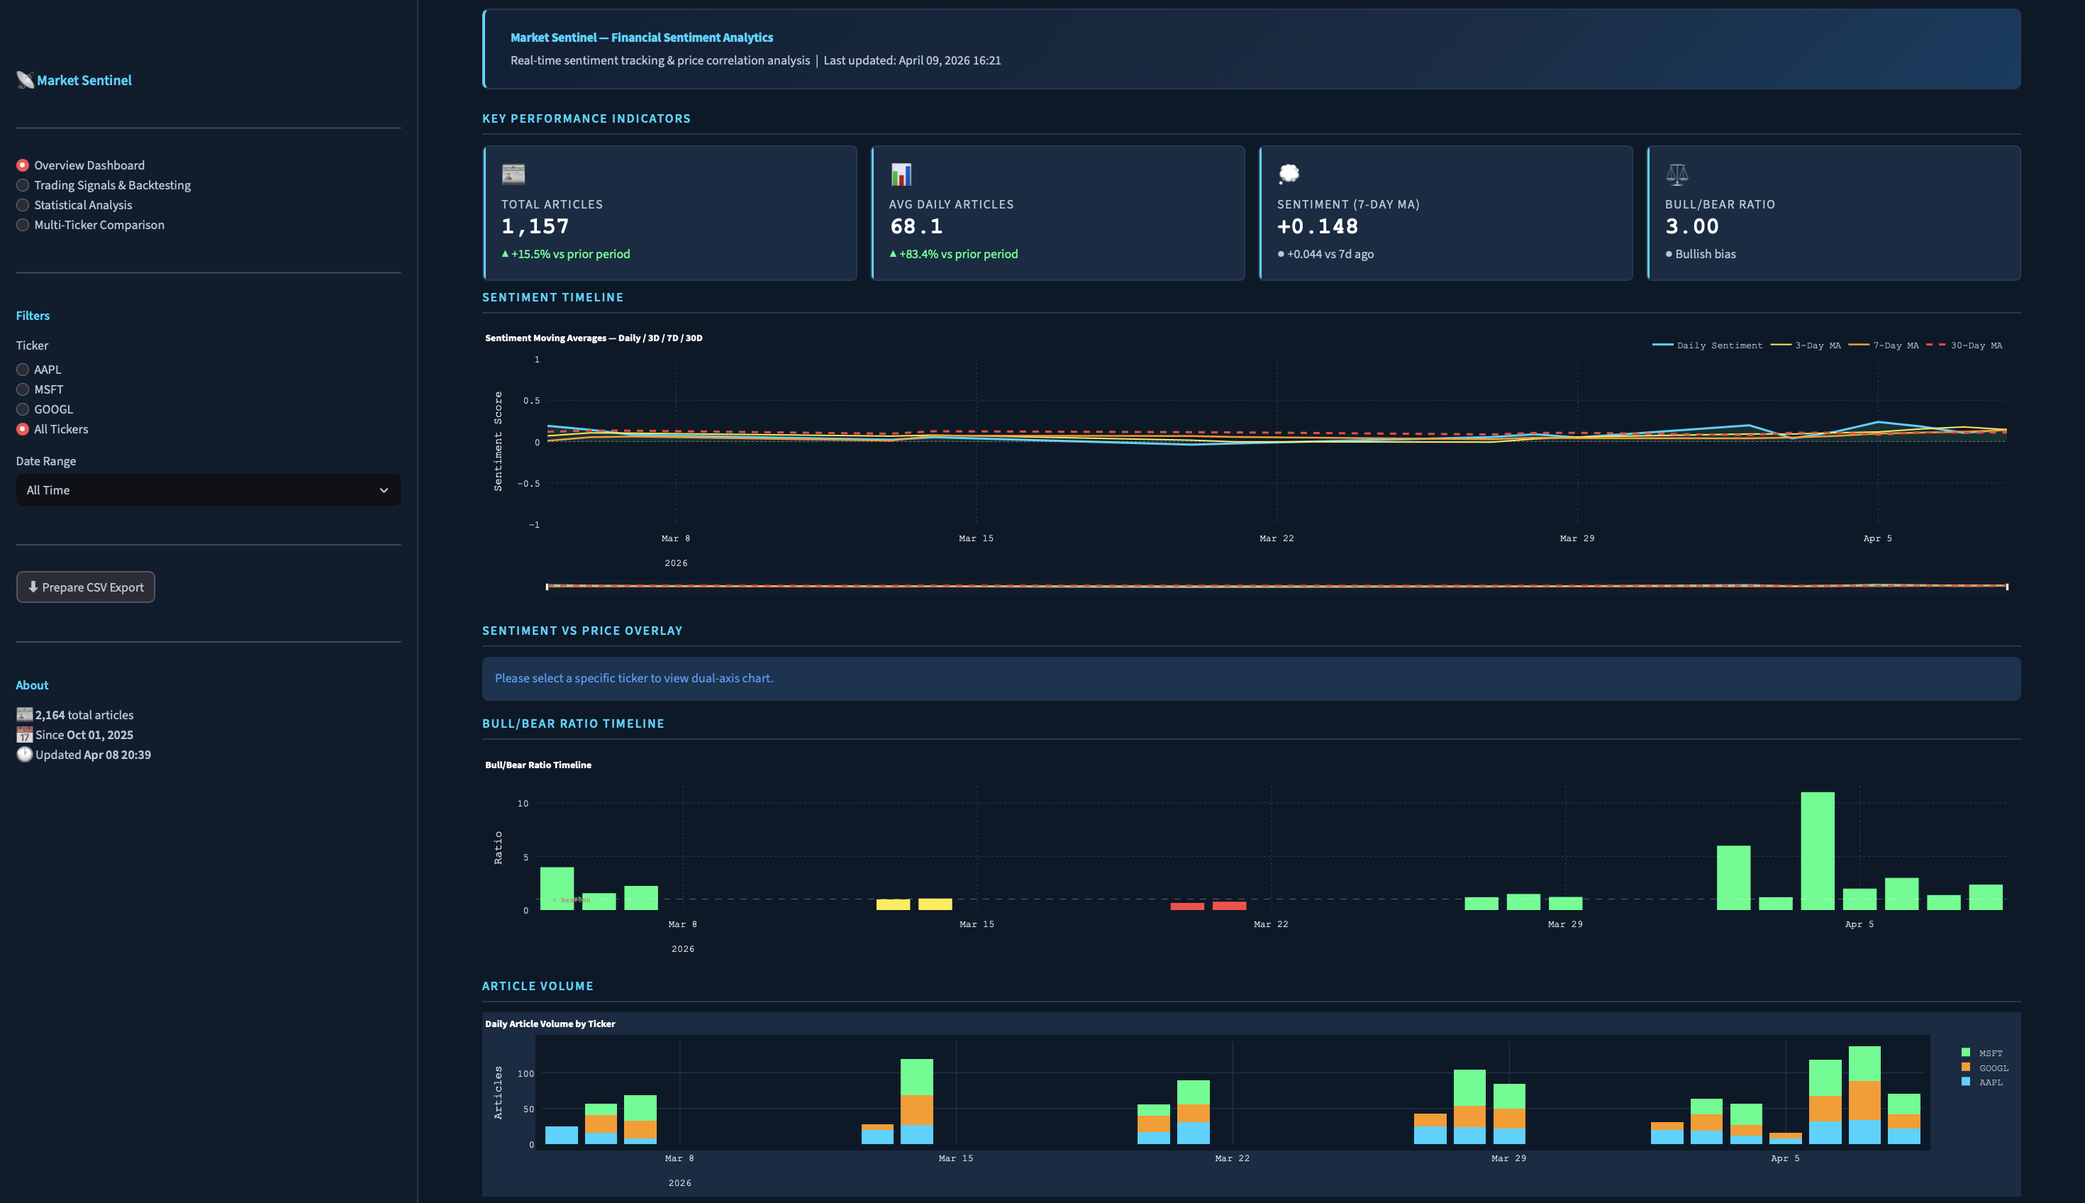
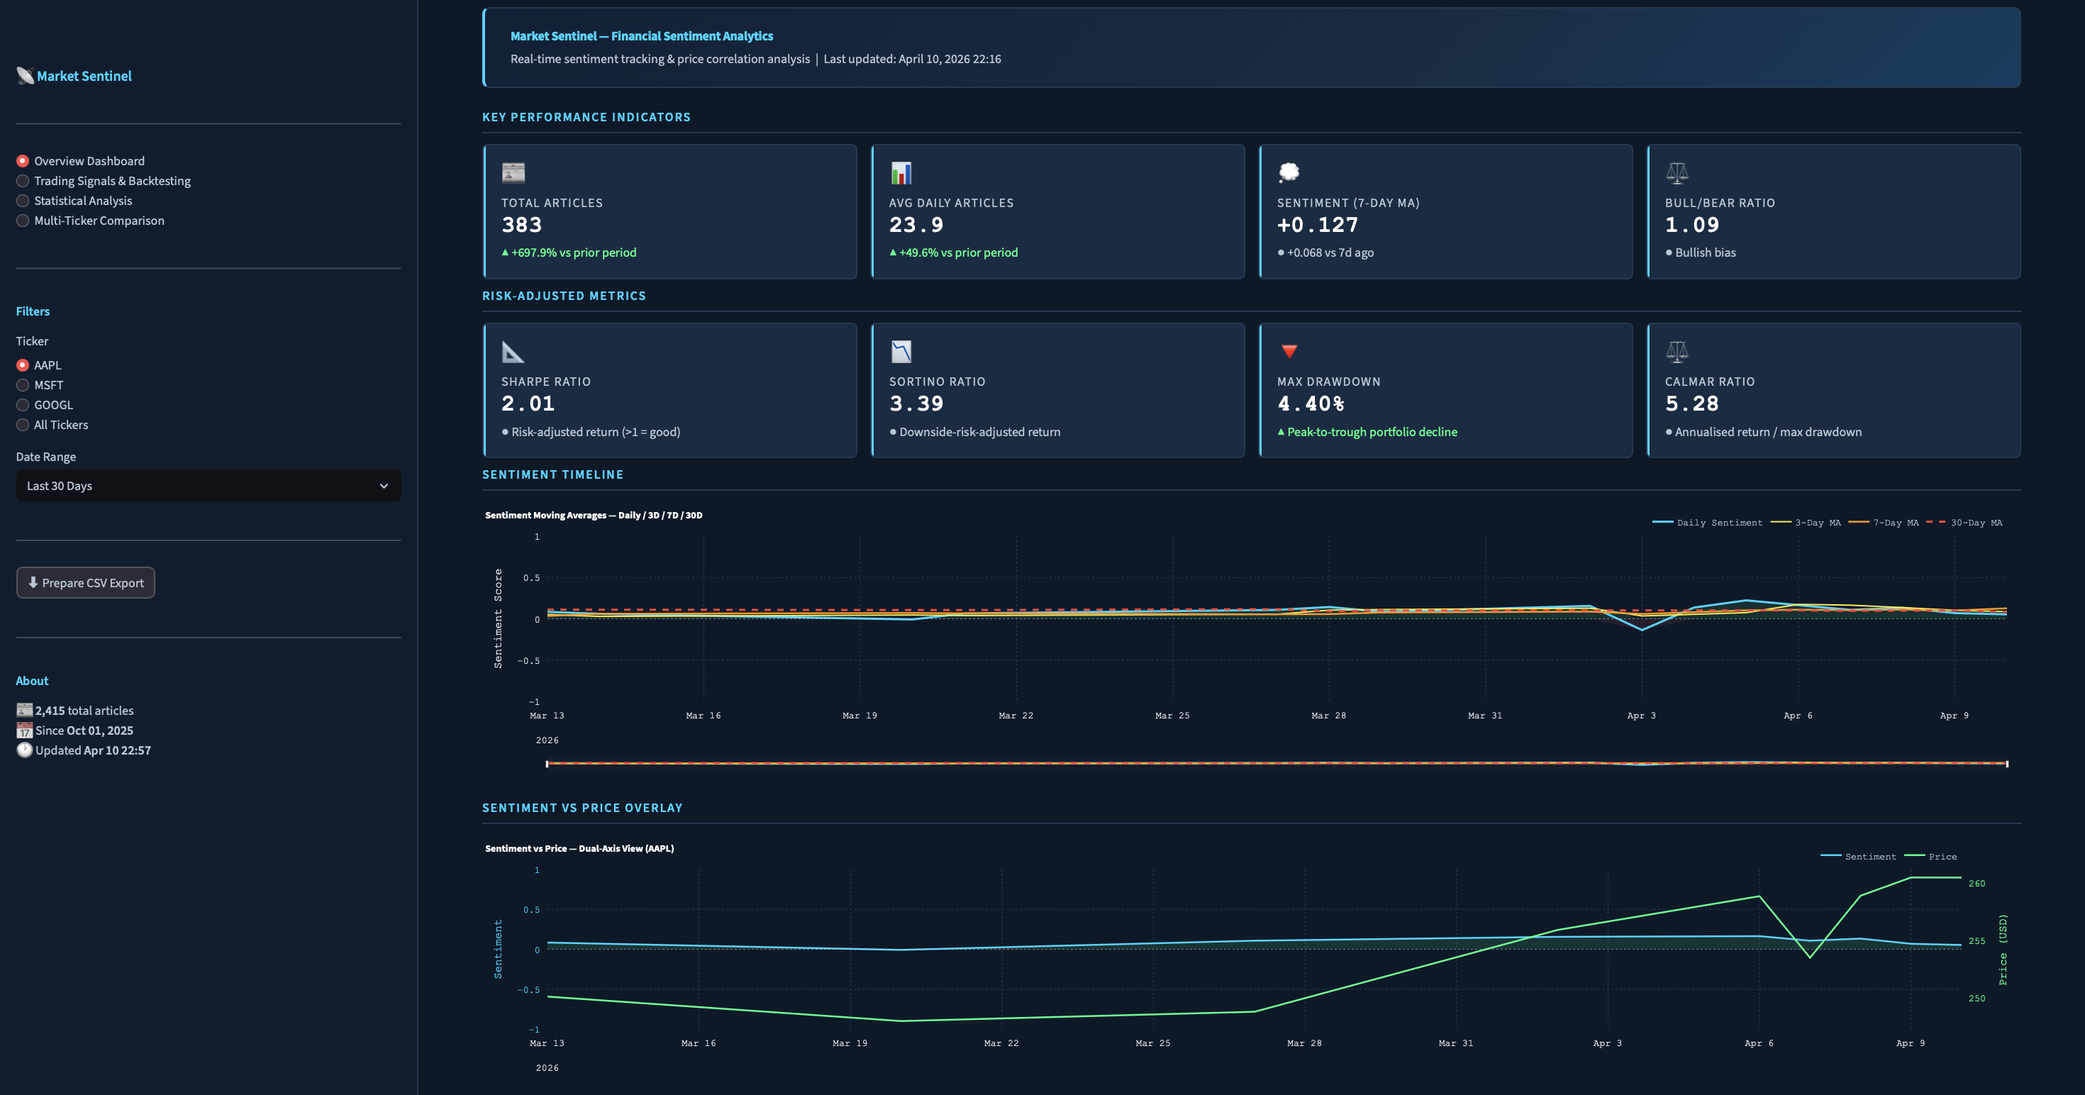
Add risk-adjusted performance metrics to dashboard
- Implemented Sharpe Ratio, Sortino Ratio, Max Drawdown, and Calmar Ratio calculations
- Added risk metrics display to Page 1 overview and Page 4 ticker comparison
- Updated README with risk metrics documentation and dashboard screenshots
- Uses signal-frequency annualization for accurate performance measurement

diff --git a/dashboard/app.py b/dashboard/app.py
@@ -260,6 +260,55 @@ def load_about_stats() -> dict:
         "last_updated": row[2],
     }
 
+# ── Risk metrics helper ───────────────────────────────────────────────────────
+
+def calc_risk_metrics(returns_series: pd.Series) -> dict:
+    """
+    Compute Sharpe, Sortino, Max Drawdown, and Calmar from a signal-based returns
+    series (values in percent, e.g. 1.5 means +1.5%).
+    Risk-free rate: 4% annual (0.04/252 daily).
+
+    Annualization uses signal frequency rather than assuming continuous daily trading.
+    The dataset covers ~126 trading days (Oct 2025 – Apr 2026); annualizing by the
+    observed signal rate (n_obs / 126 * 252) gives a more accurate picture than
+    treating each signal as a calendar day.
+    """
+    RISK_FREE_DAILY = 0.04 / 252
+    TRADING_DAYS_PER_YEAR = 252
+    PERIOD_TRADING_DAYS = 126  # Oct 2025 – Apr 2026
+
+    r = pd.to_numeric(returns_series, errors="coerce").dropna()
+    if len(r) < 3:
+        return {"sharpe": None, "sortino": None, "max_drawdown": None, "calmar": None}
+
+    r_dec = r / 100  # convert percent → decimal
+    mean_r = r_dec.mean()
+    std_r = r_dec.std()
+
+    # Annualization factor based on actual signal frequency
+    ann_factor = len(r) / PERIOD_TRADING_DAYS * TRADING_DAYS_PER_YEAR
+
+    # Sharpe ratio (annualised by signal frequency)
+    sharpe = ((mean_r - RISK_FREE_DAILY) / std_r * np.sqrt(ann_factor)) if std_r > 0 else None
+
+    # Sortino ratio — downside deviation only
+    downside = r_dec[r_dec < RISK_FREE_DAILY]
+    downside_std = downside.std() if len(downside) > 1 else 0
+    sortino = ((mean_r - RISK_FREE_DAILY) / downside_std * np.sqrt(ann_factor)) if downside_std > 0 else None
+
+    # Max Drawdown from cumulative signal returns
+    cum = (1 + r_dec).cumprod()
+    peak = cum.cummax()
+    drawdown = (cum - peak) / peak * 100
+    max_dd = abs(float(drawdown.min()))
+
+    # Calmar = annualised return / max drawdown
+    ann_ret = mean_r * ann_factor * 100
+    calmar = ann_ret / max_dd if max_dd > 0 else None
+
+    return {"sharpe": sharpe, "sortino": sortino, "max_drawdown": max_dd, "calmar": calmar}
+
+
 # ── Date-range resolver ───────────────────────────────────────────────────────
 
 def resolve_dates(range_label: str, custom_start=None, custom_end=None):
@@ -453,6 +502,41 @@ def page_overview(ticker: str, start_date: date, end_date: date):
         bb_str = f"{'Bullish' if bb_pos else 'Bearish'} bias"
         kpi_card("⚖", "Bull/Bear Ratio", f"{latest_bb_ratio:.2f}",
                  bb_str, delta_positive=bb_pos)
+
+    # ── Risk-Adjusted Metrics ──
+    st.markdown('<p class="section-title">Risk-Adjusted Metrics</p>', unsafe_allow_html=True)
+    try:
+        df_signals_risk = load_trading_signals(ticker)
+        risk_returns = pd.to_numeric(df_signals_risk["next_day_return"], errors="coerce").dropna()
+        rm = calc_risk_metrics(risk_returns)
+    except Exception:
+        rm = {"sharpe": None, "sortino": None, "max_drawdown": None, "calmar": None}
+
+    r1, r2, r3, r4 = st.columns(4)
+    with r1:
+        sharpe_str = f"{rm['sharpe']:.2f}" if rm["sharpe"] is not None else "N/A"
+        kpi_card("📐", "Sharpe Ratio",
+                 sharpe_str,
+                 "Risk-adjusted return (>1 = good)",
+                 delta_positive=(rm["sharpe"] > 1) if rm["sharpe"] is not None else None)
+    with r2:
+        sortino_str = f"{rm['sortino']:.2f}" if rm["sortino"] is not None else "N/A"
+        kpi_card("📉", "Sortino Ratio",
+                 sortino_str,
+                 "Downside-risk-adjusted return",
+                 delta_positive=(rm["sortino"] > 1) if rm["sortino"] is not None else None)
+    with r3:
+        dd_str = f"{rm['max_drawdown']:.2f}%" if rm["max_drawdown"] is not None else "N/A"
+        kpi_card("🔻", "Max Drawdown",
+                 dd_str,
+                 "Peak-to-trough portfolio decline",
+                 delta_positive=(rm["max_drawdown"] < 10) if rm["max_drawdown"] is not None else None)
+    with r4:
+        calmar_str = f"{rm['calmar']:.2f}" if rm["calmar"] is not None else "N/A"
+        kpi_card("⚖", "Calmar Ratio",
+                 calmar_str,
+                 "Annualised return / max drawdown",
+                 delta_positive=(rm["calmar"] > 1) if rm["calmar"] is not None else None)
 
     # ── Sentiment Timeline ──
     st.markdown('<p class="section-title">Sentiment Timeline</p>', unsafe_allow_html=True)
@@ -1444,8 +1528,11 @@ def page_multi_ticker():
         avg_ret = sub_ret["next_day_return"].mean() if not sub_ret.empty else float("nan")
         best_ret = sub_ret["next_day_return"].max() if not sub_ret.empty else float("nan")
         best_date = sub_ret.loc[sub_ret["next_day_return"].idxmax(), "date"] if not sub_ret.empty else None
+        risk_m = calc_risk_metrics(sub_ret["next_day_return"])
         stats_by_ticker[t] = dict(total=total, win_rate=win_rate, avg_ret=avg_ret,
-                                   best_ret=best_ret, best_date=best_date)
+                                   best_ret=best_ret, best_date=best_date,
+                                   sharpe=risk_m["sharpe"], max_drawdown=risk_m["max_drawdown"],
+                                   calmar=risk_m["calmar"])
 
     for i, t in enumerate(["AAPL", "MSFT", "GOOGL"]):
         s = stats_by_ticker[t]
@@ -1457,6 +1544,9 @@ def page_multi_ticker():
         avg_str  = f"{s['avg_ret']:+.2f}%" if not np.isnan(s["avg_ret"]) else "N/A"
         best_str = f"{s['best_ret']:+.2f}%" if not np.isnan(s["best_ret"]) else "N/A"
         date_str = s["best_date"].strftime("%b %d") if s["best_date"] is not None else ""
+
+        sharpe_str = f"{s['sharpe']:.2f}" if s["sharpe"] is not None else "N/A"
+        dd_str     = f"{s['max_drawdown']:.2f}%" if s["max_drawdown"] is not None else "N/A"
 
         with card_cols[i]:
             st.markdown(f"""
@@ -1480,6 +1570,14 @@ def page_multi_ticker():
               text-transform:uppercase;letter-spacing:0.08em">Best Trade</div>
   <div style="font-size:1.1rem;font-weight:600;color:#00ff88;
               font-family:Courier New">{best_str}{f" ({date_str})" if date_str else ""}</div>
+  <div style="margin-top:0.6rem;font-size:0.72rem;color:#b8c5d6;
+              text-transform:uppercase;letter-spacing:0.08em">Sharpe Ratio</div>
+  <div style="font-size:1.1rem;font-weight:600;color:#00d4ff;
+              font-family:Courier New">{sharpe_str}</div>
+  <div style="margin-top:0.6rem;font-size:0.72rem;color:#b8c5d6;
+              text-transform:uppercase;letter-spacing:0.08em">Max Drawdown</div>
+  <div style="font-size:1.1rem;font-weight:600;color:#ff9800;
+              font-family:Courier New">{dd_str}</div>
 </div>
 """, unsafe_allow_html=True)
 
@@ -1577,6 +1675,8 @@ def page_multi_ticker():
             "Avg Return (%)": round(s["avg_ret"], 2) if not np.isnan(s["avg_ret"]) else None,
             "Best Trade (%)": round(s["best_ret"], 2) if not np.isnan(s["best_ret"]) else None,
             "Worst Trade (%)": round(worst, 2) if not np.isnan(worst) else None,
+            "Sharpe Ratio": round(s["sharpe"], 2) if s["sharpe"] is not None else None,
+            "Max Drawdown (%)": round(s["max_drawdown"], 2) if s["max_drawdown"] is not None else None,
             "Sent-Price Corr": round(r_val, 2) if not np.isnan(r_val) else None,
         }
 

diff --git a/README.md b/README.md
@@ -67,13 +67,13 @@ Market Sentinel implements a **Data Lakehouse** architecture, combining the flex
 ┌─────────────────────────────────────────────────────────────────────────┐
 │                    ORCHESTRATION LAYER (Apache Airflow)                  │
 ├─────────────────────────────────────────────────────────────────────────┤
-│  DAG 1: ingest_news_dag        │  DAG 2: fetch_prices_dag              │
-│  • Fetches news daily (10 PM)  │  • Fetches stock prices (10 PM)       │
-│  • Stores raw JSON in MinIO    │  • Stores in PostgreSQL staging       │
-│  • Handles API rate limits     │  • Covers AAPL, MSFT, GOOGL           │
-├────────────────────────────────┴───────────────────────────────────────┤
-│  DAG 3: process_sentiment_dag  │  DAG 4: dbt_transform_dag             │
-│  • Runs FinBERT analysis (11PM)│  • Runs dbt models (11:30 PM)         │
+│  DAG 1: ingest_news_dag              │  DAG 2: fetch_prices_dag              │
+│  • Fetches news daily (22:00 UTC)    │  • Fetches stock prices (22:00 UTC)   │
+│  • Stores raw JSON in MinIO          │  • Stores in PostgreSQL staging       │
+│  • Handles API rate limits           │  • Covers AAPL, MSFT, GOOGL           │
+├──────────────────────────────────────┴───────────────────────────────────────┤
+│  DAG 3: process_sentiment_dag        │  DAG 4: dbt_transform_dag             │
+│  • Runs FinBERT analysis (23:00 UTC) │  • Runs dbt models (23:30 UTC)        │
 │  • Loads to PostgreSQL staging │  • Builds analytics tables            │
 │  • Processes new articles only │  • Generates trading signals          │
 └────────────┬──────────────────────┴──────────────────┬──────────────────┘
@@ -193,6 +193,7 @@ Four comprehensive views built in Streamlit:
 
 **Page 1: Overview Dashboard**
 - Real-time KPIs: Total articles, daily average, 7-day sentiment MA, bull/bear ratio
+- Risk-adjusted metrics: Sharpe Ratio, Sortino Ratio, Max Drawdown, Calmar Ratio
 - Sentiment timeline with multiple moving averages (7D, 30D, 90D)
 - Sentiment vs. price overlay chart (dual-axis)
 - Article volume breakdown by ticker
@@ -210,12 +211,18 @@ Four comprehensive views built in Streamlit:
 - Auto-generated key insights based on data
 
 **Page 4: Multi-Ticker Comparison**
-- Side-by-side performance cards with colored borders
+- Side-by-side performance cards with colored borders (includes Sharpe Ratio, Max Drawdown per ticker)
 - Win rate by signal type per ticker
 - Sentiment-price correlation bar chart
-- Comparative stats table (returns, win rates, correlations)
+- Comparative stats table (returns, win rates, Sharpe Ratio, Max Drawdown, correlations)
 
-### 6. **Production-Grade Engineering**
+### 6. **Advanced Analytics**
+- Risk-adjusted performance metrics: Sharpe Ratio, Sortino Ratio, Calmar Ratio (annualized)
+- Maximum drawdown tracking for portfolio risk assessment
+- Statistical significance testing (Pearson's r + p-values across all metric pairs)
+- Comparative multi-ticker risk analysis (per-ticker Sharpe and drawdown breakdown)
+
+### 7. **Production-Grade Engineering**
 - **Dockerized deployment:** Entire stack (Airflow, PostgreSQL, MinIO, Streamlit) runs with one command
 - **Error handling:** Retry logic, graceful degradation, logging
 - **Git version control:** All code, SQL models, and configurations tracked
@@ -246,6 +253,17 @@ Four comprehensive views built in Streamlit:
 - **Overall Sentiment (7-Day MA):** +0.148 (slightly bullish)
 - **Bull/Bear Ratio:** 3.00 (3:1 ratio of positive to negative articles)
 - **Interpretation:** Market coverage was predominantly bullish during this period (Q4 2025 - Q1 2026), consistent with strong tech sector performance
+
+### Risk-Adjusted Metrics (All Tickers)
+
+| Metric | Value | Description |
+|--------|-------|-------------|
+| **Sharpe Ratio** | 2.96 | Annualised risk-adjusted return (risk-free rate: 4%) |
+| **Sortino Ratio** | 5.32 | Downside-risk-adjusted return (penalises losses only) |
+| **Max Drawdown** | 5.38% | Peak-to-trough decline across signal returns |
+| **Calmar Ratio** | 11.17 | Annualised return divided by max drawdown |
+
+*Annualization uses signal frequency (85 signals over 126 trading days ≈ 170 signals/year) rather than assuming continuous daily trading, which would overstate performance for a HOLD-heavy strategy.*
 
 ---
 
@@ -321,8 +339,8 @@ Four comprehensive views built in Streamlit:
 **Future Improvements:**
 - Incorporate additional features (market regime, sector rotation, options flow)
 - Multi-day holding periods (current strategy only measures next-day returns)
-- Risk-adjusted metrics (Sharpe ratio, max drawdown)
 - Intraday data (sentiment may have stronger short-term impact)
+- Portfolio-level risk management (position sizing, stop-loss, take-profit)
 
 ---
 
@@ -378,10 +396,10 @@ Access Airflow UI at http://localhost:8080
 - **Password:** `admin`
 
 Enable DAGs (all 4):
-- `ingest_news` - Daily news ingestion (10 PM)
-- `fetch_prices` - Daily price data fetch (10 PM)
-- `process_sentiment` - Sentiment analysis (11 PM)
-- `dbt_transform` - dbt model execution (11:30 PM)
+- `ingest_news` - Daily news ingestion (22:00 UTC / 5:00 PM EST)
+- `fetch_prices` - Daily price data fetch (22:00 UTC / 5:00 PM EST)
+- `process_sentiment` - Sentiment analysis (23:00 UTC / 6:00 PM EST)
+- `dbt_transform` - dbt model execution (23:30 UTC / 6:30 PM EST)
 
 **5. Run Initial Backfill (Optional)**
 
@@ -405,12 +423,12 @@ Open http://localhost:8501 in your browser.
 
 Once configured, the pipeline runs automatically every day:
 
-1. **10:00 PM EST:** `ingest_news` and `fetch_prices` DAGs run in parallel
+1. **22:00 UTC (5:00 PM EST):** `ingest_news` and `fetch_prices` DAGs run in parallel
    - News articles fetched from Alpha Vantage → stored in MinIO
    - Stock prices fetched from Yahoo Finance → stored in PostgreSQL staging
-2. **11:00 PM EST:** `process_sentiment` DAG runs (depends on news ingestion)
+2. **23:00 UTC (6:00 PM EST):** `process_sentiment` DAG runs (depends on news ingestion)
    - FinBERT analyzes sentiment → loads to PostgreSQL staging
-3. **11:30 PM EST:** `dbt_transform` DAG runs (depends on sentiment processing)
+3. **23:30 UTC (6:30 PM EST):** `dbt_transform` DAG runs (depends on sentiment processing)
    - All 9 dbt models execute → `trading_signals` table updates
 4. **Dashboard auto-refreshes:** New data appears in Streamlit UI next morning
 
@@ -459,10 +477,10 @@ market-sentinel/
 ├── README.md                   # This file
 │
 ├── dags/                       # Airflow DAGs (4 production DAGs)
-│   ├── ingest_news_dag.py      # Daily news ingestion (10 PM)
-│   ├── fetch_prices_dag.py     # Daily price data fetch (10 PM)
-│   ├── process_sentiment_dag.py # Sentiment analysis (11 PM)
-│   └── dbt_transform_dag.py    # dbt transformations (11:30 PM)
+│   ├── ingest_news_dag.py      # Daily news ingestion (22:00 UTC)
+│   ├── fetch_prices_dag.py     # Daily price data fetch (22:00 UTC)
+│   ├── process_sentiment_dag.py # Sentiment analysis (23:00 UTC)
+│   └── dbt_transform_dag.py    # dbt transformations (23:30 UTC)
 │
 ├── scripts/                    # Python ETL scripts
 │   ├── fetch_news.py           # Fetch news from Alpha Vantage
@@ -549,23 +567,23 @@ WHERE ABS(next_day_return) > 5.0;  -- Flag outliers (should be empty)
 ### Airflow DAG Parameters
 
 **`ingest_news_dag.py`:**
-- **Schedule:** `@daily` at 10:00 PM EST
+- **Schedule:** `@daily` at 22:00 UTC (5:00 PM EST)
 - **Retries:** 3
 - **Retry delay:** 5 minutes
 - **Catchup:** False (doesn't backfill missed runs)
 
 **`fetch_prices_dag.py`:**
-- **Schedule:** `@daily` at 10:00 PM EST
+- **Schedule:** `@daily` at 22:00 UTC (5:00 PM EST)
 - **Retries:** 3
 - **Retry delay:** 5 minutes
 
 **`process_sentiment_dag.py`:**
-- **Schedule:** `@daily` at 11:00 PM EST (after news ingestion)
+- **Schedule:** `@daily` at 23:00 UTC (6:00 PM EST, after news ingestion)
 - **Retries:** 2
 - **Timeout:** 30 minutes (for FinBERT processing)
 
 **`dbt_transform_dag.py`:**
-- **Schedule:** `@daily` at 11:30 PM EST (after sentiment processing)
+- **Schedule:** `@daily` at 23:30 UTC (6:30 PM EST, after sentiment processing)
 - **Retries:** 2
 - **Runs:** All 9 dbt models in dependency order
 
@@ -592,21 +610,25 @@ Adjust these thresholds based on backtesting results.
 
 ## 📸 Screenshots
 
-### Page 1: Overview Dashboard
-![Overview Dashboard](screenshots/page1_overview.png)
-*Real-time sentiment tracking with KPIs, sentiment timeline, and bull/bear ratio analysis*
+### Page 1 - Overview Dashboard (Top)
+![Overview Dashboard Top](screenshots/page1_overview.png)
+*Key performance indicators showing 383 total articles, 23.9 avg daily articles, +0.127 sentiment (7-day MA), and 1.09 bull/bear ratio*
 
-### Page 2: Trading Signals & Backtesting
+### Page 1 - Overview Dashboard (Bottom - Risk Metrics)
+![Overview Dashboard Bottom](screenshots/page1_overview_bottom.png)
+*Risk-adjusted metrics section displaying Sharpe Ratio (2.01), Sortino Ratio (3.39), Max Drawdown (4.40%), and Calmar Ratio (5.28) for AAPL, plus sentiment timeline and price overlay charts*
+
+### Page 2 - Trading Signals & Backtesting
 ![Trading Signals](screenshots/page2_signals.png)
-*82 backtested signals with 60.8% win rate, signal distribution, and performance metrics*
+*Comprehensive signal analysis showing 82 total signals (60.8% win rate), signals over time chart, signal distribution (14 BUY, 61 HOLD, 7 SELL), and detailed signal log with next-day returns*
 
-### Page 3: Statistical Analysis
+### Page 3 - Statistical Analysis
 ![Statistical Analysis](screenshots/page3_stats.png)
-*Correlation heatmaps and statistical significance testing across all metrics*
+*Correlation heatmaps (overall and by-ticker) and statistical significance testing showing relationships between sentiment, price changes, and volume. Key finding: Sentiment → Volume correlation (r=-0.199, p=0.0731) is marginally significant*
 
-### Page 4: Multi-Ticker Comparison
+### Page 4 - Multi-Ticker Comparison
 ![Multi-Ticker Comparison](screenshots/page4_comparison.png)
-*Side-by-side performance comparison across AAPL, MSFT, and GOOGL*
+*Side-by-side performance cards for AAPL, MSFT, GOOGL with risk metrics, win rate analysis by signal type, sentiment-price correlation charts, and comparative statistics table*
 
 ---
 
@@ -616,4 +638,4 @@ MIT License - See [LICENSE](LICENSE) for details.
 
 ---
 
-**Bryce Whiteside** | Stony Brook University | Applied Mathematics & Computer Science (Dec 2027)
+**Bryce Whiteside** | Stony Brook University | Applied Mathematics & Computer Science
